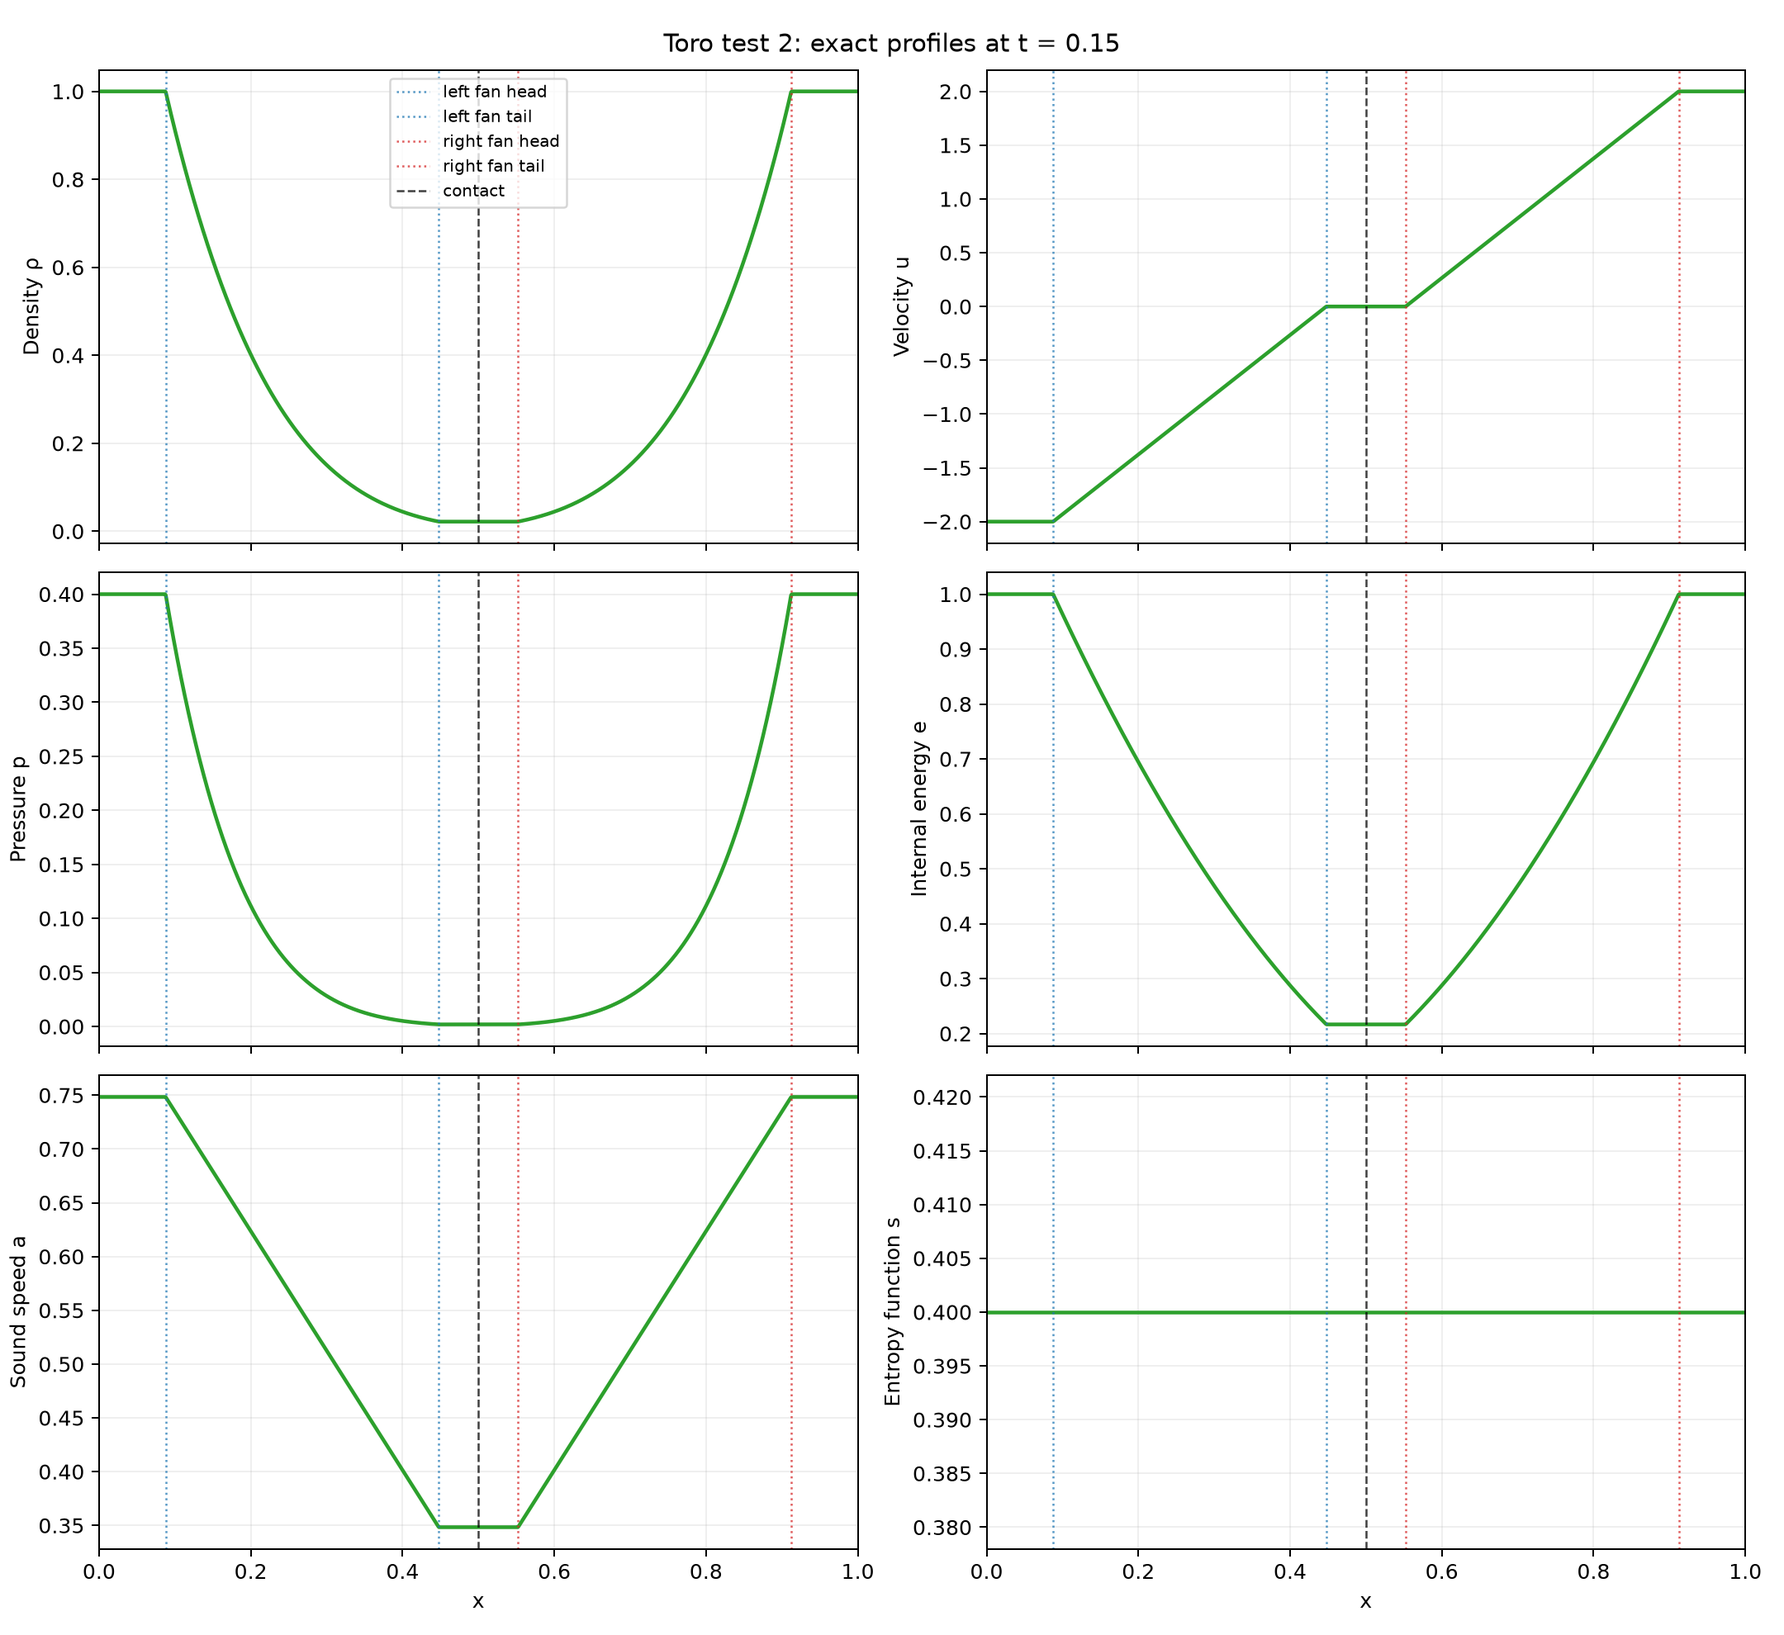
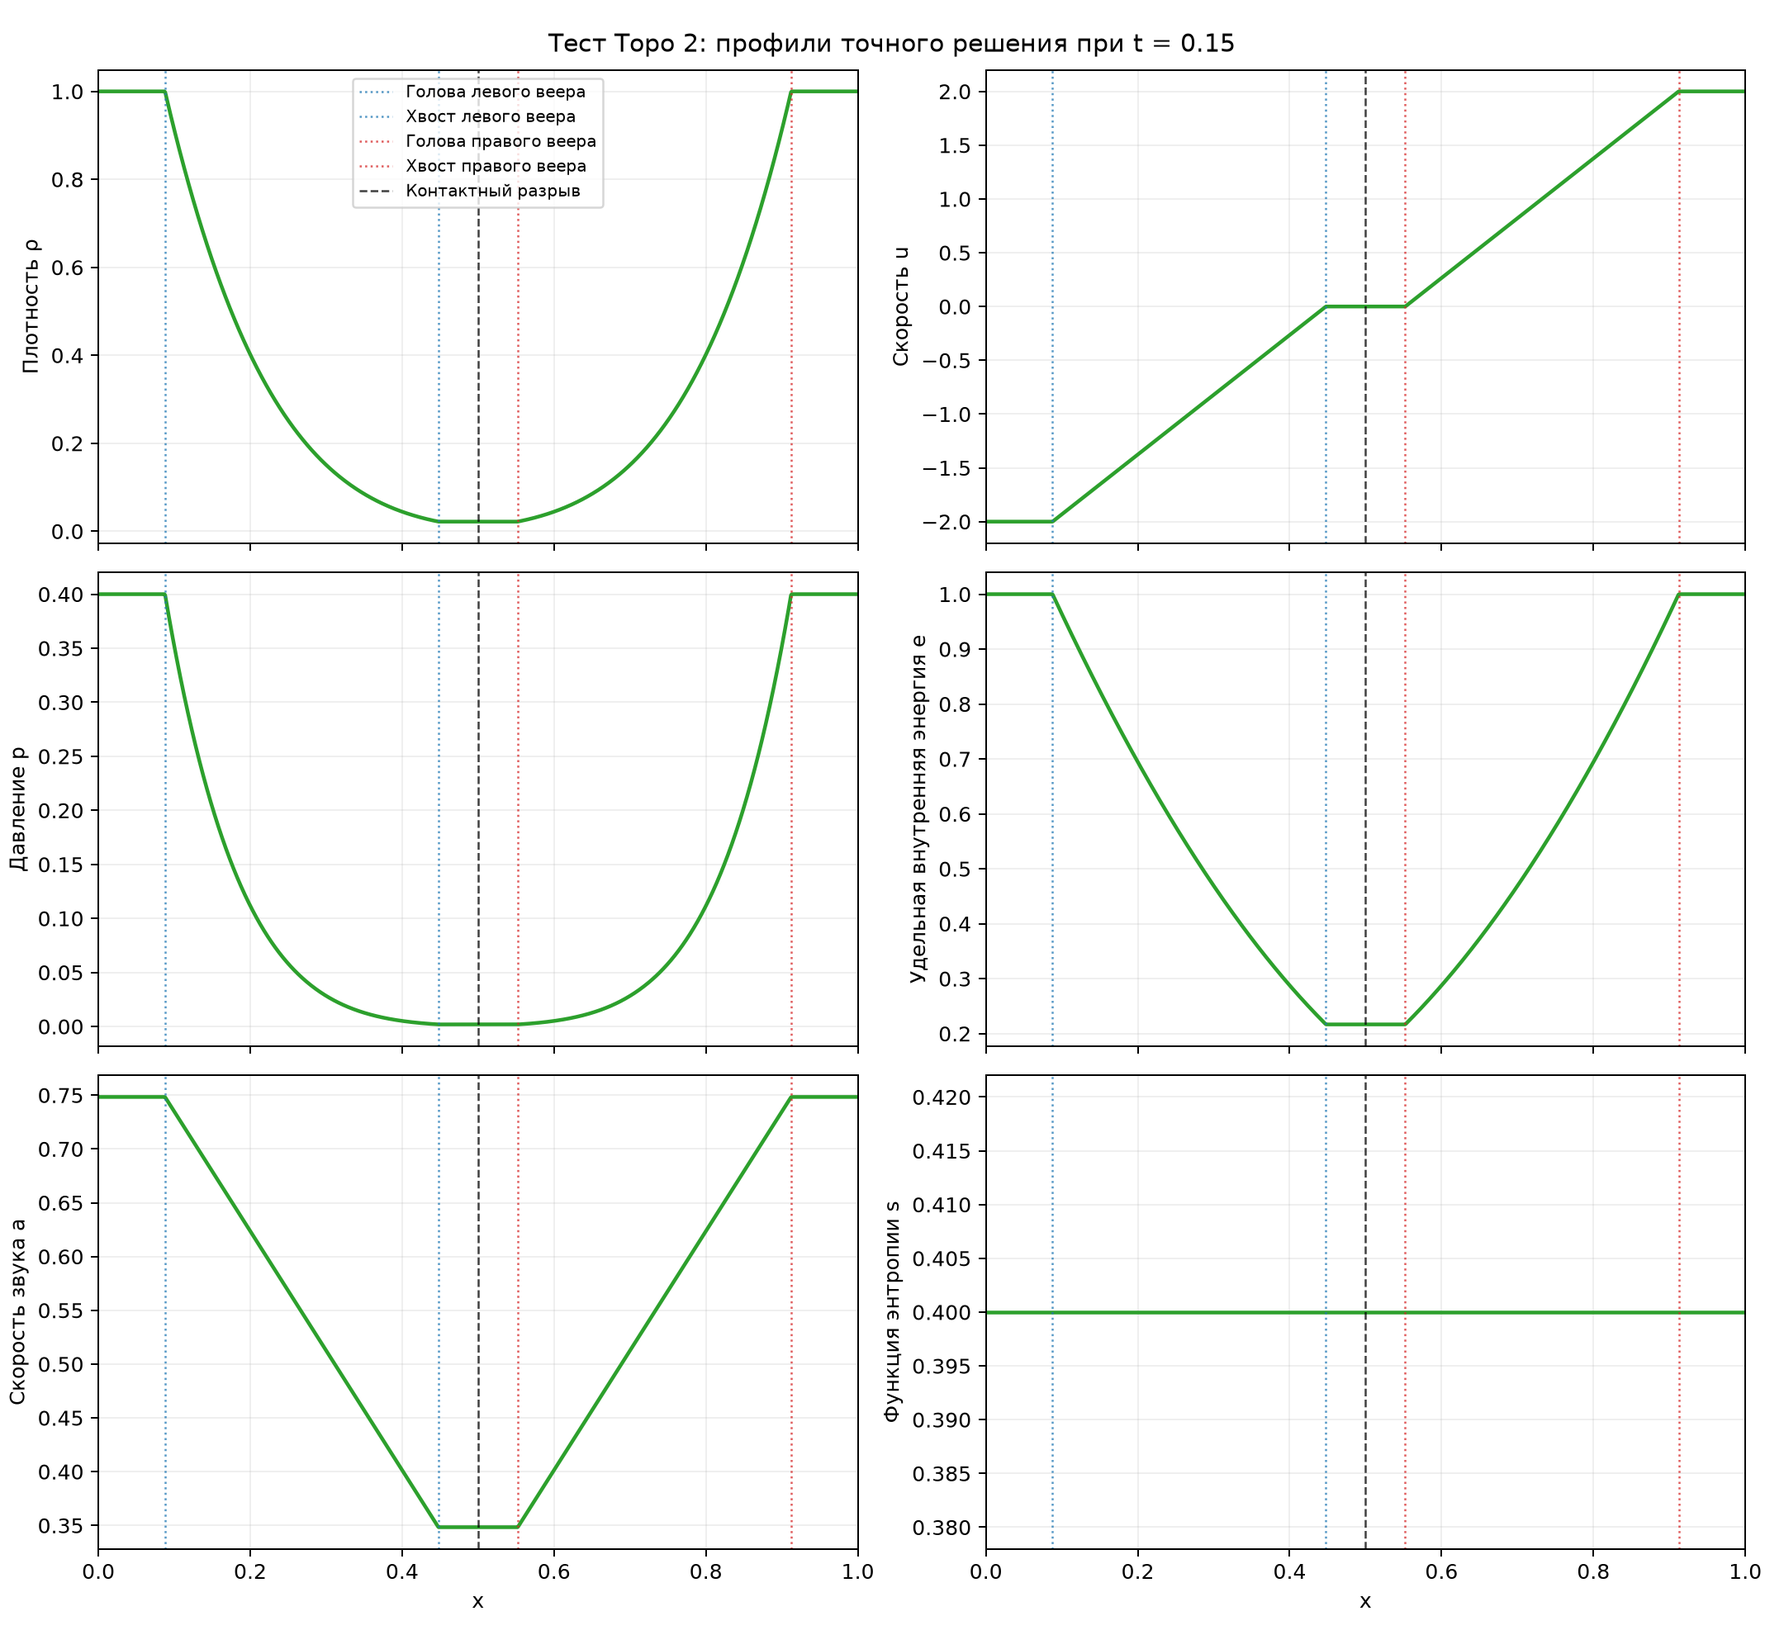
translate plot labels

diff --git a/scripts/plot_profiles.py b/scripts/plot_profiles.py
@@ -1,4 +1,4 @@
-"""Build six exact-solution profiles from CSV files written by export_toro."""
+"""Строит шесть профилей точного решения по сохранённым CSV."""
 
 from pathlib import Path
 import argparse
@@ -20,16 +20,19 @@ def wave_lines(metadata: dict[str, str]) -> list[tuple[float, str, str]]:
     x0 = float(metadata["x0"])
     time = float(metadata["t_out"])
     result = []
-    for side, color in (("left", "tab:blue"), ("right", "tab:red")):
+    for side, wave_name, fan_name, color in (
+        ("left", "Левая", "левого", "tab:blue"),
+        ("right", "Правая", "правого", "tab:red"),
+    ):
         if metadata[f"{side}_type"] == "shock":
             result.append((x0 + time * float(metadata[f"{side}_speed"]),
-                           f"{side} shock", color))
+                           f"{wave_name} ударная волна", color))
         else:
             result.append((x0 + time * float(metadata[f"{side}_head"]),
-                           f"{side} fan head", color))
+                           f"Голова {fan_name} веера", color))
             result.append((x0 + time * float(metadata[f"{side}_tail"]),
-                           f"{side} fan tail", color))
-    result.append((x0 + time * float(metadata["u_star"]), "contact", "black"))
+                           f"Хвост {fan_name} веера", color))
+    result.append((x0 + time * float(metadata["u_star"]), "Контактный разрыв", "black"))
     return result
 
 
@@ -37,16 +40,16 @@ def plot_case(case_dir: Path, figure_dir: Path, number: int | str) -> None:
     metadata = read_metadata(case_dir / "metadata.csv")
     data = np.genfromtxt(case_dir / "profile.csv", delimiter=",", names=True)
     fields = (
-        ("rho", "Density ρ"), ("u", "Velocity u"),
-        ("p", "Pressure p"), ("e", "Internal energy e"),
-        ("a", "Sound speed a"), ("s", "Entropy function s"),
+        ("rho", "Плотность ρ"), ("u", "Скорость u"),
+        ("p", "Давление p"), ("e", "Удельная внутренняя энергия e"),
+        ("a", "Скорость звука a"), ("s", "Функция энтропии s"),
     )
     figure, axes = plt.subplots(3, 2, figsize=(12, 11), sharex=True)
     for axis, (field, title) in zip(axes.flat, fields):
         axis.plot(data["x"], data[field], color="tab:green", linewidth=1.8)
         for position, label, color in wave_lines(metadata):
-            is_contact = label == "contact"
-            is_fan = "fan" in label
+            is_contact = label == "Контактный разрыв"
+            is_fan = "веера" in label
             axis.axvline(position, color=color, linewidth=1.0,
                          linestyle="--" if is_contact else (":" if is_fan else "-"),
                          alpha=0.75, label=label)
@@ -56,9 +59,9 @@ def plot_case(case_dir: Path, figure_dir: Path, number: int | str) -> None:
     axes[0, 0].legend(loc="best", fontsize=8)
     for axis in axes[-1, :]:
         axis.set_xlabel("x")
-    case_title = f"Toro test {number}" if isinstance(number, int) else f"Case {number}"
+    case_title = f"Тест Торо {number}" if isinstance(number, int) else f"Задача {number}"
     file_stem = f"toro_{number}" if isinstance(number, int) else number
-    figure.suptitle(f"{case_title}: exact profiles at t = {float(metadata['t_out']):g}")
+    figure.suptitle(f"{case_title}: профили точного решения при t = {float(metadata['t_out']):g}")
     figure.tight_layout()
     figure_dir.mkdir(parents=True, exist_ok=True)
     figure.savefig(figure_dir / f"{file_stem}_profiles.png", dpi=180)
@@ -72,7 +75,7 @@ def main() -> None:
     args = parser.parse_args()
     for number in range(1, 6):
         plot_case(args.data_dir / f"toro_{number}", args.figure_dir, number)
-        print(f"Saved Toro {number} profiles")
+        print(f"Сохранены профили теста Торо {number}")
 
 
 if __name__ == "__main__":

diff --git a/scripts/plot_xt.py b/scripts/plot_xt.py
@@ -1,4 +1,4 @@
-"""Build x-t density diagrams from CSV files written by export_toro."""
+"""Строит диаграммы плотности на плоскости x–t по сохранённым CSV."""
 
 from pathlib import Path
 import argparse
@@ -41,23 +41,26 @@ def plot_case(case_dir: Path, figure_dir: Path, number: int | str) -> None:
 
     figure, axis = plt.subplots(figsize=(10, 7))
     mesh = axis.pcolormesh(x, times, rho, shading="auto", cmap="viridis")
-    figure.colorbar(mesh, ax=axis, label="Density ρ")
+    figure.colorbar(mesh, ax=axis, label="Плотность ρ")
 
-    for side, color in (("left", "tab:red"), ("right", "tab:orange")):
+    for side, wave_name, fan_name, color in (
+        ("left", "Левая", "левого", "tab:red"),
+        ("right", "Правая", "правого", "tab:orange"),
+    ):
         if metadata[f"{side}_type"] == "shock":
             draw_wave(axis, x0, times, float(metadata[f"{side}_speed"]),
-                      color, "-", f"{side} shock")
+                      color, "-", f"{wave_name} ударная волна")
         else:
             head = float(metadata[f"{side}_head"])
             tail = float(metadata[f"{side}_tail"])
-            draw_wave(axis, x0, times, head, color, "-", f"{side} fan head")
-            draw_wave(axis, x0, times, tail, color, "-", f"{side} fan tail")
+            draw_wave(axis, x0, times, head, color, "-", f"Голова {fan_name} веера")
+            draw_wave(axis, x0, times, tail, color, "-", f"Хвост {fan_name} веера")
             for speed in np.linspace(head, tail, 7)[1:-1]:
                 draw_wave(axis, x0, times, float(speed), color, ":", "_nolegend_")
 
-    draw_wave(axis, x0, times, contact, "white", "--", "contact")
+    draw_wave(axis, x0, times, contact, "white", "--", "Контактный разрыв")
 
-    # Region labels are placed between wave boundaries at 70% of the final time.
+    # Обозначения областей ставятся между волнами при 70 % конечного времени.
     label_time = 0.7 * t_out
     left_head, left_tail = wave_boundaries(metadata, "left")
     right_head, right_tail = wave_boundaries(metadata, "right")
@@ -76,10 +79,10 @@ def plot_case(case_dir: Path, figure_dir: Path, number: int | str) -> None:
                       color="white", fontsize=10, fontweight="bold",
                       bbox={"facecolor": "black", "alpha": 0.45, "pad": 2})
 
-    case_title = f"Toro test {number}" if isinstance(number, int) else f"Case {number}"
+    case_title = f"Тест Торо {number}" if isinstance(number, int) else f"Задача {number}"
     file_stem = f"toro_{number}" if isinstance(number, int) else number
     axis.set(xlim=(x_min, x_max), ylim=(0, t_out), xlabel="x", ylabel="t",
-             title=f"{case_title}: x-t density diagram")
+             title=f"{case_title}: плотность на плоскости x–t")
     axis.legend(loc="upper right", fontsize=8)
     figure.tight_layout()
     figure_dir.mkdir(parents=True, exist_ok=True)
@@ -94,7 +97,7 @@ def main() -> None:
     args = parser.parse_args()
     for number in range(1, 6):
         plot_case(args.data_dir / f"toro_{number}", args.figure_dir, number)
-        print(f"Saved Toro {number} x-t diagram")
+        print(f"Сохранена диаграмма x–t теста Торо {number}")
 
 
 if __name__ == "__main__":

diff --git a/scripts/plot_pu.py b/scripts/plot_pu.py
@@ -1,4 +1,4 @@
-"""Build p-u wave-curve diagrams from CSV files written by export_toro."""
+"""Строит волновые кривые на плоскости p–u по сохранённым CSV."""
 
 from pathlib import Path
 import argparse
@@ -23,25 +23,26 @@ def plot_case(case_dir: Path, figure_dir: Path, number: int | str,
     pressure = curves["p"]
 
     figure, axis = plt.subplots(figsize=(9, 7))
-    for side, color in (("left", "tab:blue"), ("right", "tab:red")):
+    for side, name, color in (("left", "Левая", "tab:blue"),
+                              ("right", "Правая", "tab:red")):
         initial_p = float(metadata[f"{side}_p"])
         velocity = curves[f"u_{side}"]
         rarefaction = pressure <= initial_p
         shock = pressure >= initial_p
         axis.plot(velocity[rarefaction], pressure[rarefaction], color=color,
-                  linestyle="--", linewidth=1.8, label=f"{side} rarefaction")
+                  linestyle="--", linewidth=1.8, label=f"{name} волна разрежения")
         axis.plot(velocity[shock], pressure[shock], color=color,
-                  linestyle="-", linewidth=1.8, label=f"{side} shock")
+                  linestyle="-", linewidth=1.8, label=f"{name} ударная ветвь")
         axis.scatter([float(metadata[f"{side}_u"])], [initial_p], color=color,
                      s=55, zorder=4)
-        axis.annotate("L" if side == "left" else "R",
+        axis.annotate("Л" if side == "left" else "П",
                       (float(metadata[f"{side}_u"]), initial_p),
                       xytext=(5, 5), textcoords="offset points")
 
     u_star = float(metadata["u_star"])
     p_star = float(metadata["p_star"])
     axis.scatter([u_star], [p_star], color="black", marker="*", s=150,
-                 zorder=5, label="(u*, p*)")
+                 zorder=5, label="Точка пересечения (u*, p*)")
     axis.annotate("*", (u_star, p_star), xytext=(7, 6), textcoords="offset points")
     if log_pressure is None:
         if isinstance(number, int):
@@ -51,10 +52,10 @@ def plot_case(case_dir: Path, figure_dir: Path, number: int | str,
             log_pressure = max(pressures) / min(pressures) >= 1000
     if log_pressure:
         axis.set_yscale("log")
-    case_title = f"Toro test {number}" if isinstance(number, int) else f"Case {number}"
+    case_title = f"Тест Торо {number}" if isinstance(number, int) else f"Задача {number}"
     file_stem = f"toro_{number}" if isinstance(number, int) else number
-    axis.set(xlabel="Velocity u", ylabel="Pressure p",
-             title=f"{case_title}: wave curves in the p-u plane")
+    axis.set(xlabel="Скорость u", ylabel="Давление p",
+             title=f"{case_title}: волновые кривые на плоскости p–u")
     axis.grid(alpha=0.2, which="both")
     axis.legend(loc="best", fontsize=9)
     figure.tight_layout()
@@ -70,7 +71,7 @@ def main() -> None:
     args = parser.parse_args()
     for number in range(1, 6):
         plot_case(args.data_dir / f"toro_{number}", args.figure_dir, number)
-        print(f"Saved Toro {number} p-u diagram")
+        print(f"Сохранена диаграмма p–u теста Торо {number}")
 
 
 if __name__ == "__main__":

diff --git a/scripts/plot_case.py b/scripts/plot_case.py
@@ -1,4 +1,4 @@
-"""Plot one custom Riemann case from four CSV files written by export_case."""
+"""Строит три рисунка для одной задачи по четырём CSV от export_case."""
 
 from pathlib import Path
 import argparse
@@ -11,21 +11,22 @@ from plot_pu import plot_case as plot_pu
 
 def main() -> None:
     parser = argparse.ArgumentParser(description=__doc__)
-    parser.add_argument("data_dir", type=Path, help="Directory containing the four CSV files")
+    parser.add_argument("data_dir", type=Path, help="Каталог с четырьмя CSV-файлами")
     parser.add_argument("--figure-dir", type=Path, default=Path("output/figures"))
-    parser.add_argument("--name", help="Short name used in figure titles and file names")
+    parser.add_argument("--name", help="Короткое имя для заголовков и имён файлов")
     parser.add_argument("--pressure-scale", choices=("auto", "linear", "log"), default="auto")
     args = parser.parse_args()
 
     name = args.name or args.data_dir.name
     if not re.fullmatch(r"[A-Za-z0-9_-]+", name):
-        parser.error("--name must contain only letters, digits, '_' or '-'")
+        parser.error("--name может содержать только латинские буквы, цифры, '_' и '-'")
     log_pressure = None if args.pressure_scale == "auto" else args.pressure_scale == "log"
 
     plot_profiles(args.data_dir, args.figure_dir, name)
     plot_xt(args.data_dir, args.figure_dir, name)
     plot_pu(args.data_dir, args.figure_dir, name, log_pressure)
-    print(f"Saved {name}_profiles.png, {name}_xt.png and {name}_pu.png to {args.figure_dir}")
+    print(f"В {args.figure_dir} сохранены {name}_profiles.png, "
+          f"{name}_xt.png и {name}_pu.png")
 
 
 if __name__ == "__main__":

diff --git a/scripts/plot_all.py b/scripts/plot_all.py
@@ -1,4 +1,4 @@
-"""Build all figures for the five Toro cases from exported CSV files."""
+"""Строит все рисунки для пяти тестов Торо по сохранённым CSV."""
 
 from pathlib import Path
 import argparse
@@ -18,7 +18,7 @@ def main() -> None:
         plot_profiles(case_dir, args.figure_dir, number)
         plot_xt(case_dir, args.figure_dir, number)
         plot_pu(case_dir, args.figure_dir, number)
-        print(f"Saved all figures for Toro {number}")
+        print(f"Сохранены все рисунки теста Торо {number}")
 
 
 if __name__ == "__main__":

diff --git a/docs/11_pu.md b/docs/11_pu.md
@@ -9,7 +9,7 @@
 .venv/bin/python scripts/plot_pu.py
 ```
 
-На каждой диаграмме горизонтальная ось — скорость `u`, вертикальная — давление `p`. Левая кривая синяя, правая красная. При `p < p_K` ветвь волны разрежения штриховая; при `p > p_K` ударная ветвь сплошная (§15.5). Отмечены исходные точки `L`, `R` и пересечение `* = (u_star, p_star)`. Для тестов 3–5 ось давления логарифмическая, как требует задание. Рисунки сохраняются в `docs/figures/toro_N_pu.png`.
+На каждой диаграмме горизонтальная ось — скорость `u`, вертикальная — давление `p`. Левая кривая синяя, правая красная. При `p < p_K` ветвь волны разрежения штриховая; при `p > p_K` ударная ветвь сплошная (§15.5). Отмечены исходные точки `Л` (левая), `П` (правая) и пересечение `* = (u_star, p_star)`. Для тестов 3–5 ось давления логарифмическая, как требует задание. Рисунки сохраняются в `docs/figures/toro_N_pu.png`.
 
 ## Почему получаются такие волны
 
